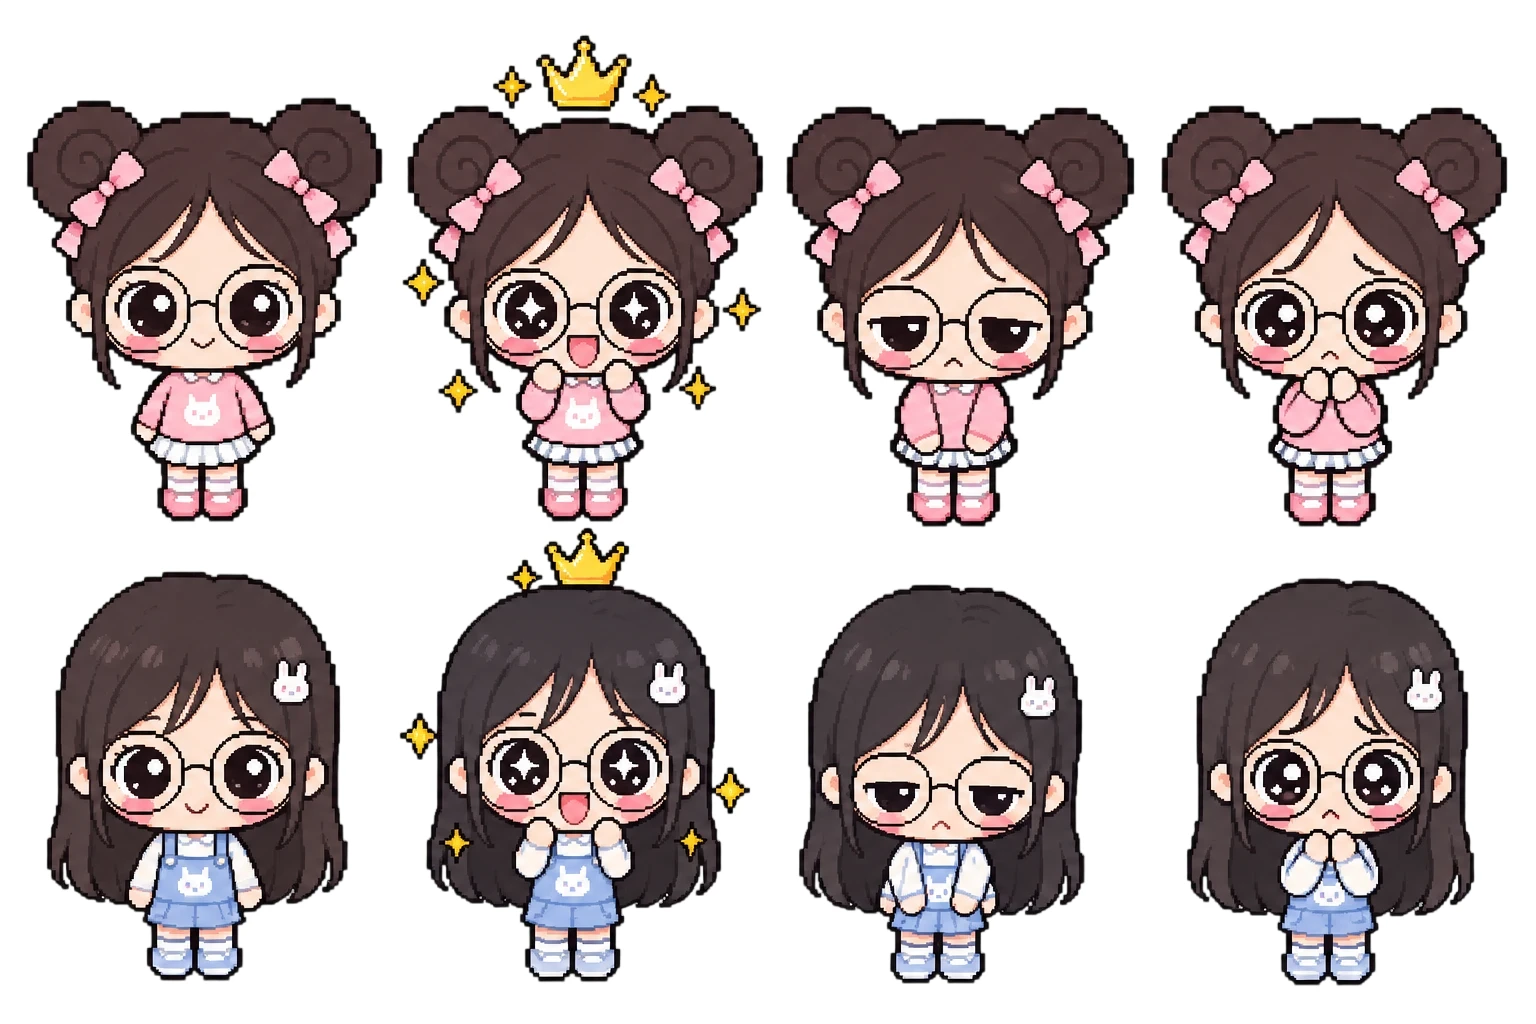
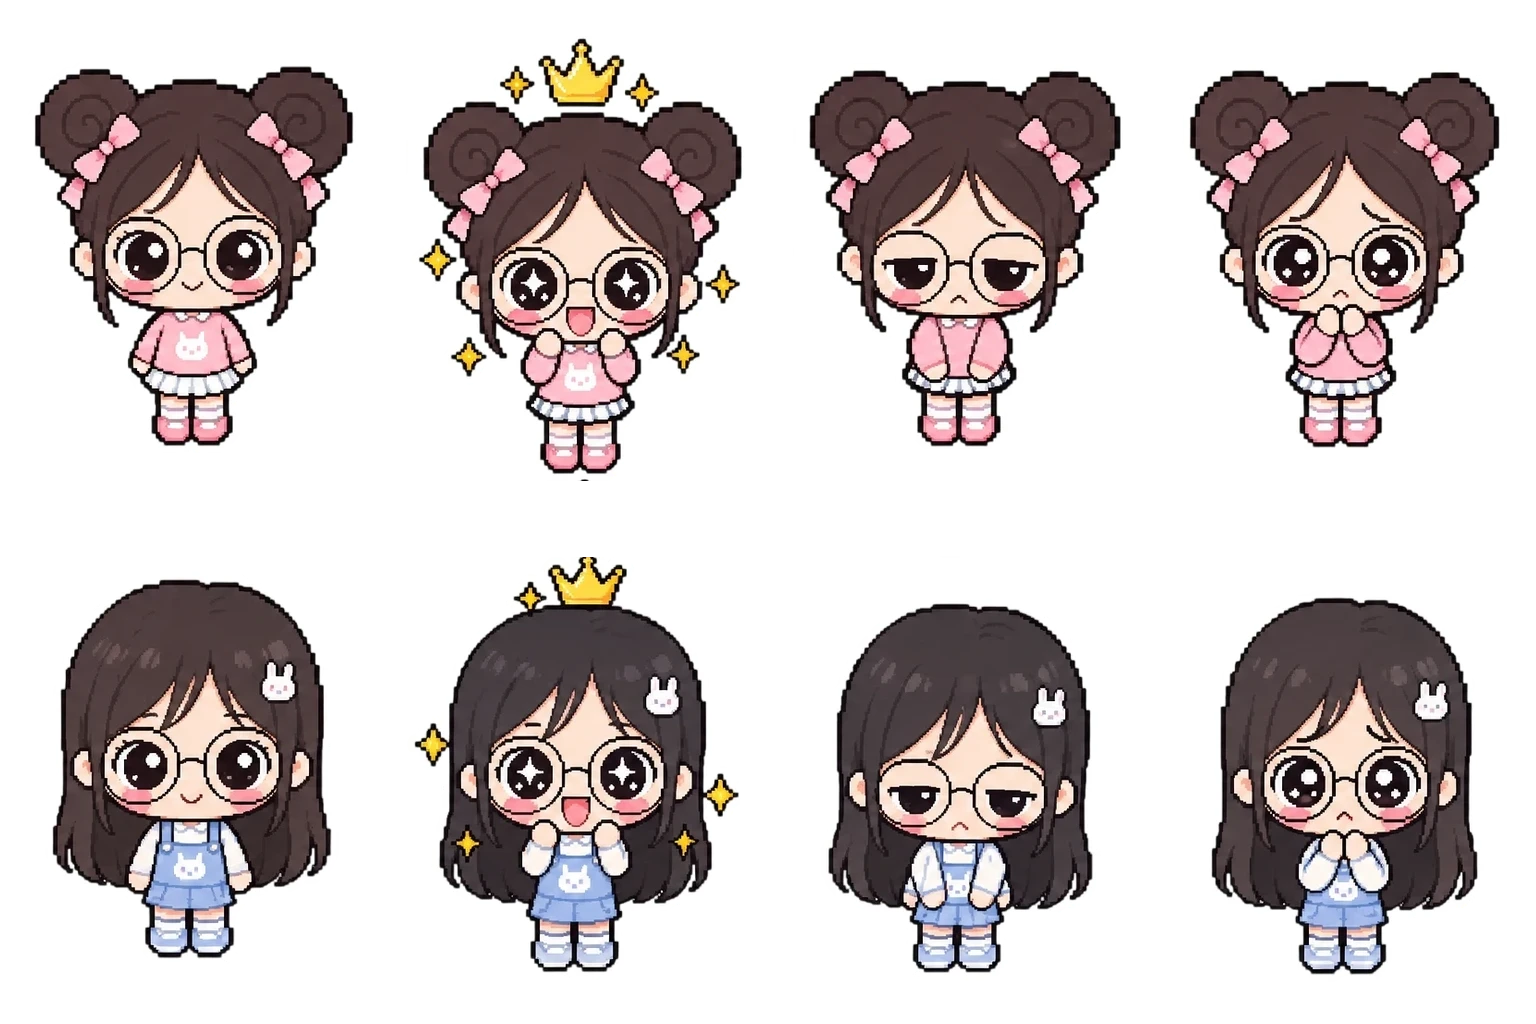
fix: 캐릭터 시트 재조립해서 크롭 문제 해결
주신 두 장(캐릭터별 4포즈 한 줄씩)을 각각 4칸으로 나눠서, 알파 채널 기준으로
실제 그림 영역을 측정한 다음 같은 줄 안에서는 동일한 배율로 축소해
384x512칸 안에 여백을 두고 중앙 정렬 재배치. 캐릭터 B(긴머리)가 위쪽이
잘리던 문제가 있었는데, 이번엔 8포즈 전부 머리/몸 잘림 없이 들어감.
편집용 원본은 assets-src/characters-source.png로 보관.

diff --git a/src/app/sprite.tsx b/src/app/sprite.tsx
@@ -39,7 +39,7 @@ export function Sprite({
   );
 }
 
-export const CHARACTER_SHEET = "/assets/characters.webp?v=8";
+export const CHARACTER_SHEET = "/assets/characters.webp?v=9";
 
 // characters.webp: row 0 = 캐릭터 A(양갈래 스월번), row 1 = 캐릭터 B(긴머리)
 export const CharRow = { A: 0, B: 1 } as const;
